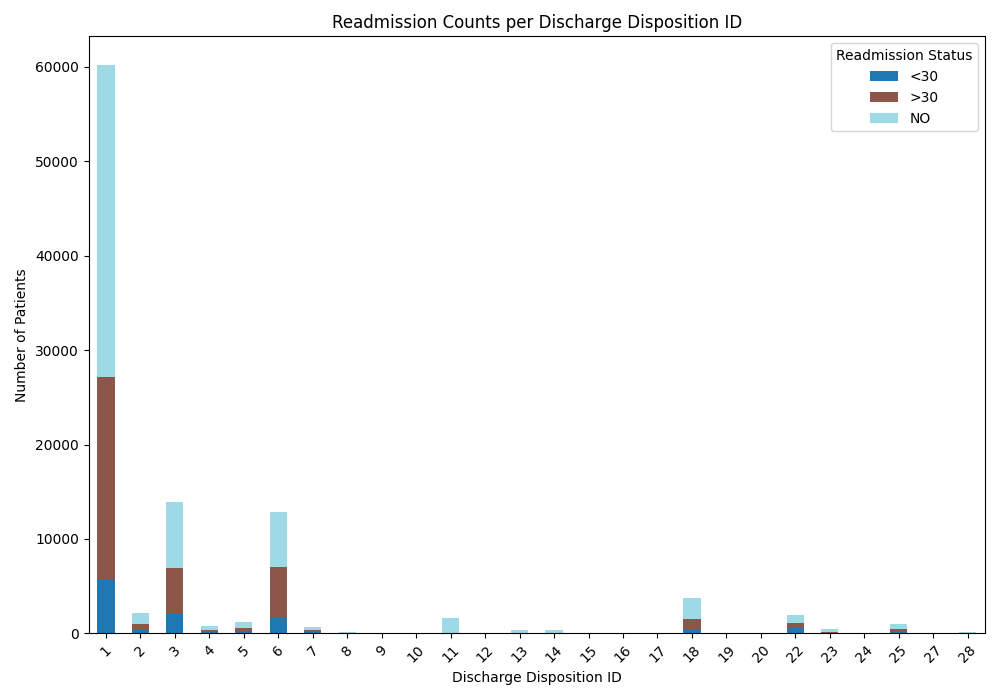
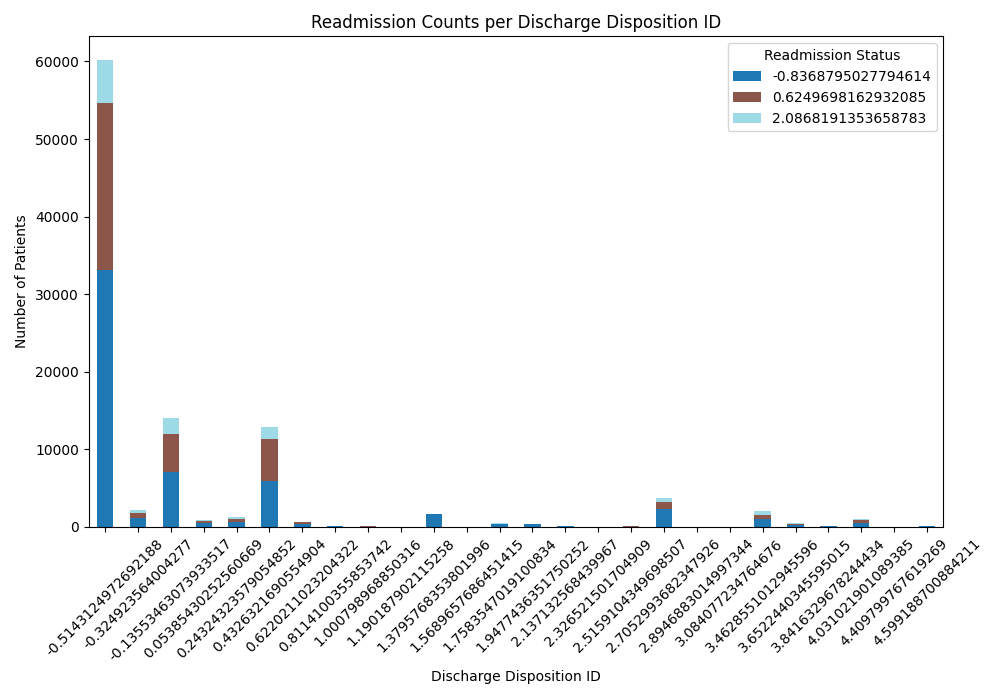
Train Accuracy: 0.8882  Val Accuracy: 0.8880 Test Accuracy: 0.8881 These are the accuracy I will double check some things before moving on.

diff --git a/data_exploration.py b/data_exploration.py
@@ -120,7 +120,8 @@ def setup():
     y_readmitted = data['readmitted']
     y_med_spec = data['medical_specialty']
     y_change = data['change']
-    data = standardize_data(data)
+    y_num_med = data['num_medications']
+    # data = standardize_data(data)
     return data, X, y_A1C, y_readmitted, y_med_spec, y_change
 
 
@@ -182,7 +183,7 @@ def plot_correlation_matrix(data: pd.DataFrame) -> None:
     Plots the correlation matrix of the input DataFrame. Assumes that the DataFrame contains numeric features.
     """
     corr = data.corr()
-    fig, ax = plt.subplots(figsize=(13, 8)) # width
+    fig, ax = plt.subplots(figsize=(30, 20)) # width
     fig.colorbar(ax.matshow(corr, cmap='coolwarm'))
     
     ticks = np.arange(len(corr.columns))
@@ -276,10 +277,13 @@ def plot_readmission_time_in_hospital(data: pd.DataFrame) -> None:
             continue  # skip target column
         counts = pd.crosstab(data[feature], data['readmitted'])
         percentages = counts.div(counts.sum(axis=1), axis=0) * 100
-        sorted_percentages = percentages.sort_values(by='NO', ascending=True)
+        # print(percentages)
+        # print(percentages.keys())
+        # sorted_percentages = percentages.sort_values(by=2, ascending=True)
         pd.set_option('display.float_format', lambda x: f'{x:5.2f}%')  # format as %
         print(GREEN + f"\nReadmission Percentages per {feature}:\n" + RESET)
-        print(sorted_percentages)
+        print(percentages)
+        # print(sorted_percentages)
         
 
     """
@@ -354,21 +358,27 @@ def print_evals(model, dataloader, criterion, loader_type: str = "dataloader not
 def main():
     seed = 1234
     np.random.seed(seed)
-    data, X, y_A1C, y_readmitted, y_med_spec, y_change = setup()
+    data, _, y_A1C, y_readmitted, y_med_spec, y_change = setup()
 
     # uncomment these!!!
     # weight_exploration(data)
-
-    # print("Moving on plot correlation")
     # numerical_standard_data = get_numeric_features(data)
     # plot_correlation_matrix(numerical_standard_data)
     # plot_readmission_time_in_hospital(data)
+
     X = data.drop('readmitted', axis=1)
+
+    features_to_drop = ["patient_nbr", "discharge_disposition_id", "admission_source_id", "payer_code", "medical_specialty"]
+    X = data.drop(features_to_drop, axis=1)
+    # X = data[['number_inpatient', 'number_emergency', 'number_diagnoses', 'diabetesMed']]
+    # plot_correlation_matrix(X)
+
     print(f'Before numerical only {X.shape}')
     non_numeric_cols = data.select_dtypes(exclude=['number']).columns
+
     # print(data['medical_specialty'].unique())
-    print("Non-numeric columns:")
-    print(non_numeric_cols)
+    # print("Non-numeric columns:")
+    # print(non_numeric_cols)
     """
     Index(['race', 'gender', 'age', 'weight', 'payer_code', 'medical_specialty',
        'diag_1', 'diag_2', 'diag_3', 'max_glu_serum', 'A1Cresult', 'metformin',
@@ -380,34 +390,116 @@ def main():
        'glimepiride-pioglitazone', 'metformin-rosiglitazone',
        'metformin-pioglitazone', 'change', 'diabetesMed'],
     """
-    # X = get_numeric_features(X)
-    print(f'After numerical only {X.shape}')
 
     X_train, X_val, y_train, y_val = train_test_split(
-        X, y_readmitted, test_size=0.2, random_state=42, stratify=y_readmitted
+        X, y_readmitted, test_size=0.3, random_state=seed, stratify=y_readmitted
     )
     
     X_val, X_test, y_val, y_test = train_test_split(
-    X_val, y_val, test_size=0.5, random_state=42, stratify=y_val)
+    X_val, y_val, test_size=0.5, random_state=seed, stratify=y_val)
 
-    train_loader = create_dataloader(X_train, y_train, shuffle=True)
-    val_loader   = create_dataloader(X_val, y_val)
-    test_loader  = create_dataloader(X_test, y_test)
+    
+
+
+    # train_loader = create_dataloader(X_train, y_train, shuffle=True)
+    # val_loader   = create_dataloader(X_val, y_val)
+    # test_loader  = create_dataloader(X_test, y_test)
 
     # trained_model, dataloader, criterion = neural_network(X_train, y_train)
 
-    mlp = MLPClassifier(hidden_layer_sizes= (64, 32),
+    mlp = MLPClassifier(hidden_layer_sizes= (10, 2),
         activation = "relu",
         solver = "sgd",
         alpha = 0.1,
-        batch_size=64,
+        batch_size=32,
+        learning_rate = 'adaptive',
+        learning_rate_init = 0.0001,
+        early_stopping=True,
+        validation_fraction=0.25,
+        max_iter = 100,
+        n_iter_no_change = 20,
+        verbose=True)
+    
+    scaler = StandardScaler().fit(X_train)  # Learn mean and std from training set
+
+    X_train = scaler.transform(X_train)
+    X_val = scaler.transform(X_val)
+    X_test = scaler.transform(X_test)
+
+    y_train.value_counts(normalize=True)
+    y_val.value_counts(normalize=True)
+    y_test.value_counts(normalize=True)
+
+    mlp.fit(X_train, y_train)
+
+    # Train
+    y_pred = mlp.predict(X_train)
+    accuracy = accuracy_score(y_train, y_pred)
+    print(f"{GREEN}Train Accuracy: {accuracy:.4f}{RESET}")
+    # Validation
+    y_pred = mlp.predict(X_val)
+    accuracy = accuracy_score(y_val, y_pred)
+    print(f"{GREEN} Val Accuracy: {accuracy:.4f}{RESET}")
+    # Test
+    y_pred = mlp.predict(X_test)
+    accuracy = accuracy_score(y_test, y_pred)
+    print(f"{GREEN}Test Accuracy: {accuracy:.4f}{RESET}")
+
+
+    # Printing distructions
+    print("Train classes:", np.bincount(y_train))
+    print("Val classes:", np.bincount(y_val))
+    # # Training
+    # print_evals(trained_model, train_loader, criterion, "Training")
+    # # Validation
+    # print_evals(trained_model, val_loader, criterion, "Validation")
+    # # Testing
+    # print_evals(trained_model, test_loader, criterion, "Testing")
+
+
+
+    
+
+
+    # plot_correlation_matrix(data)
+
+# CHECK THE PLOTSSSS FOR REGRESSION
+# DO NEURAL NETWORKS
+
+def nn_num_med():
+    seed = 1234
+    np.random.seed(seed)
+    data, _, y_A1C, y_readmitted, y_med_spec, y_change, y_num_med = setup()
+    X = data.drop('num_medications', axis=1)
+    class_counts = y_num_med.value_counts()
+
+    valid_classes = class_counts[class_counts >= 5].index
+    X = X[y_num_med.isin(valid_classes)]
+    y_num_med = y_num_med[y_num_med.isin(valid_classes)]
+
+    X_train, X_temp, y_train, y_temp = train_test_split(
+        X, y_num_med, test_size=0.40, random_state=seed, stratify=y_num_med
+    )
+    
+    X_val, X_test, y_val, y_test = train_test_split(
+        X_temp, y_temp, test_size=0.50, random_state=seed, stratify=y_temp
+    )
+
+    mlp = MLPClassifier(hidden_layer_sizes= (64, 32),
+        activation = "relu",
+        solver = "adam",
+        alpha = 0.001,
+        batch_size=16,
         learning_rate = 'adaptive',
         learning_rate_init = 0.001,
         early_stopping=True,
         validation_fraction=0.2,
-        max_iter = 450,
-        n_iter_no_change = 250,)
+        max_iter = 650,
+        n_iter_no_change = 20,
+        verbose=True)
     
+
+
     mlp.fit(X_train, y_train)
 
 
@@ -423,25 +515,10 @@ def main():
     accuracy = accuracy_score(y_test, y_pred)
     print(f"{GREEN}Test Accuracy: {accuracy:.4f}{RESET}")
 
-    # # Training
-    # print_evals(trained_model, train_loader, criterion, "Training")
-    # # Validation
-    # print_evals(trained_model, val_loader, criterion, "Validation")
-    # # Testing
-    # print_evals(trained_model, test_loader, criterion, "Testing")
-
-
-
-    
-
-
-    plot_correlation_matrix(data)
-
-# CHECK THE PLOTSSSS FOR REGRESSION
-# DO NEURAL NETWORKS
-
 
 main()
+
+# nn_num_med()
     
 
     
